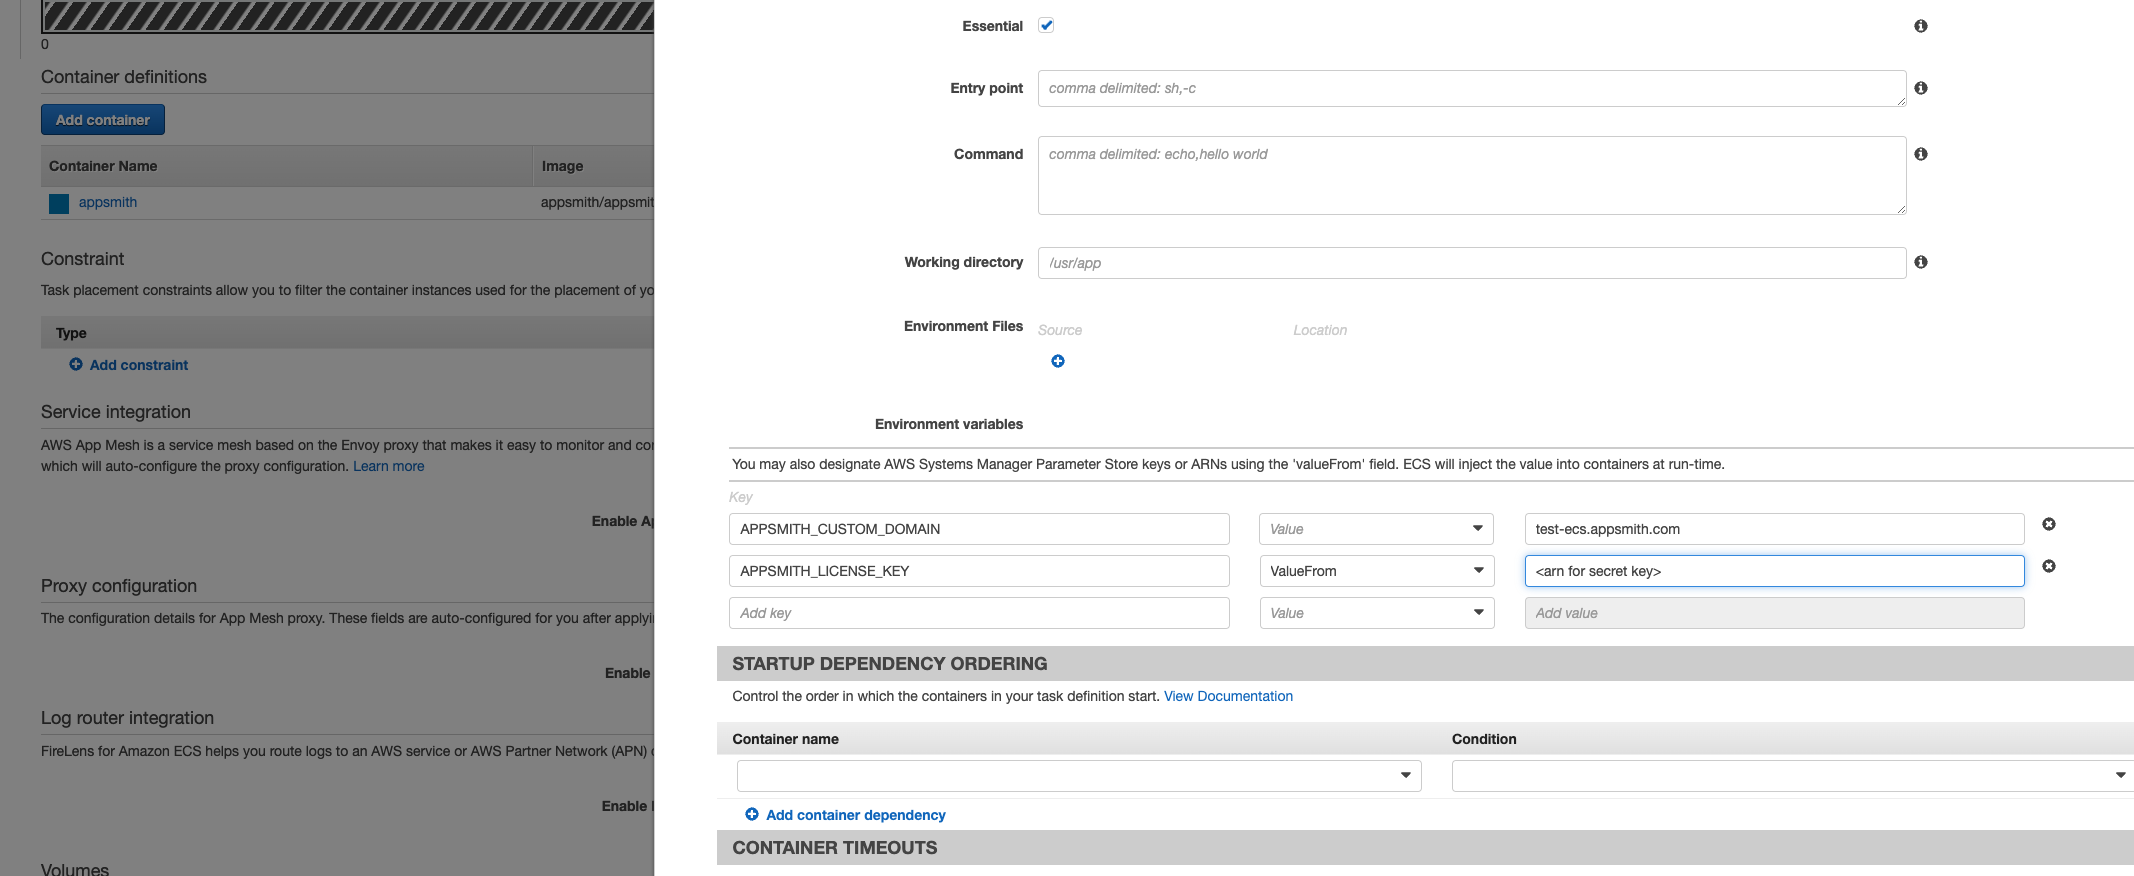
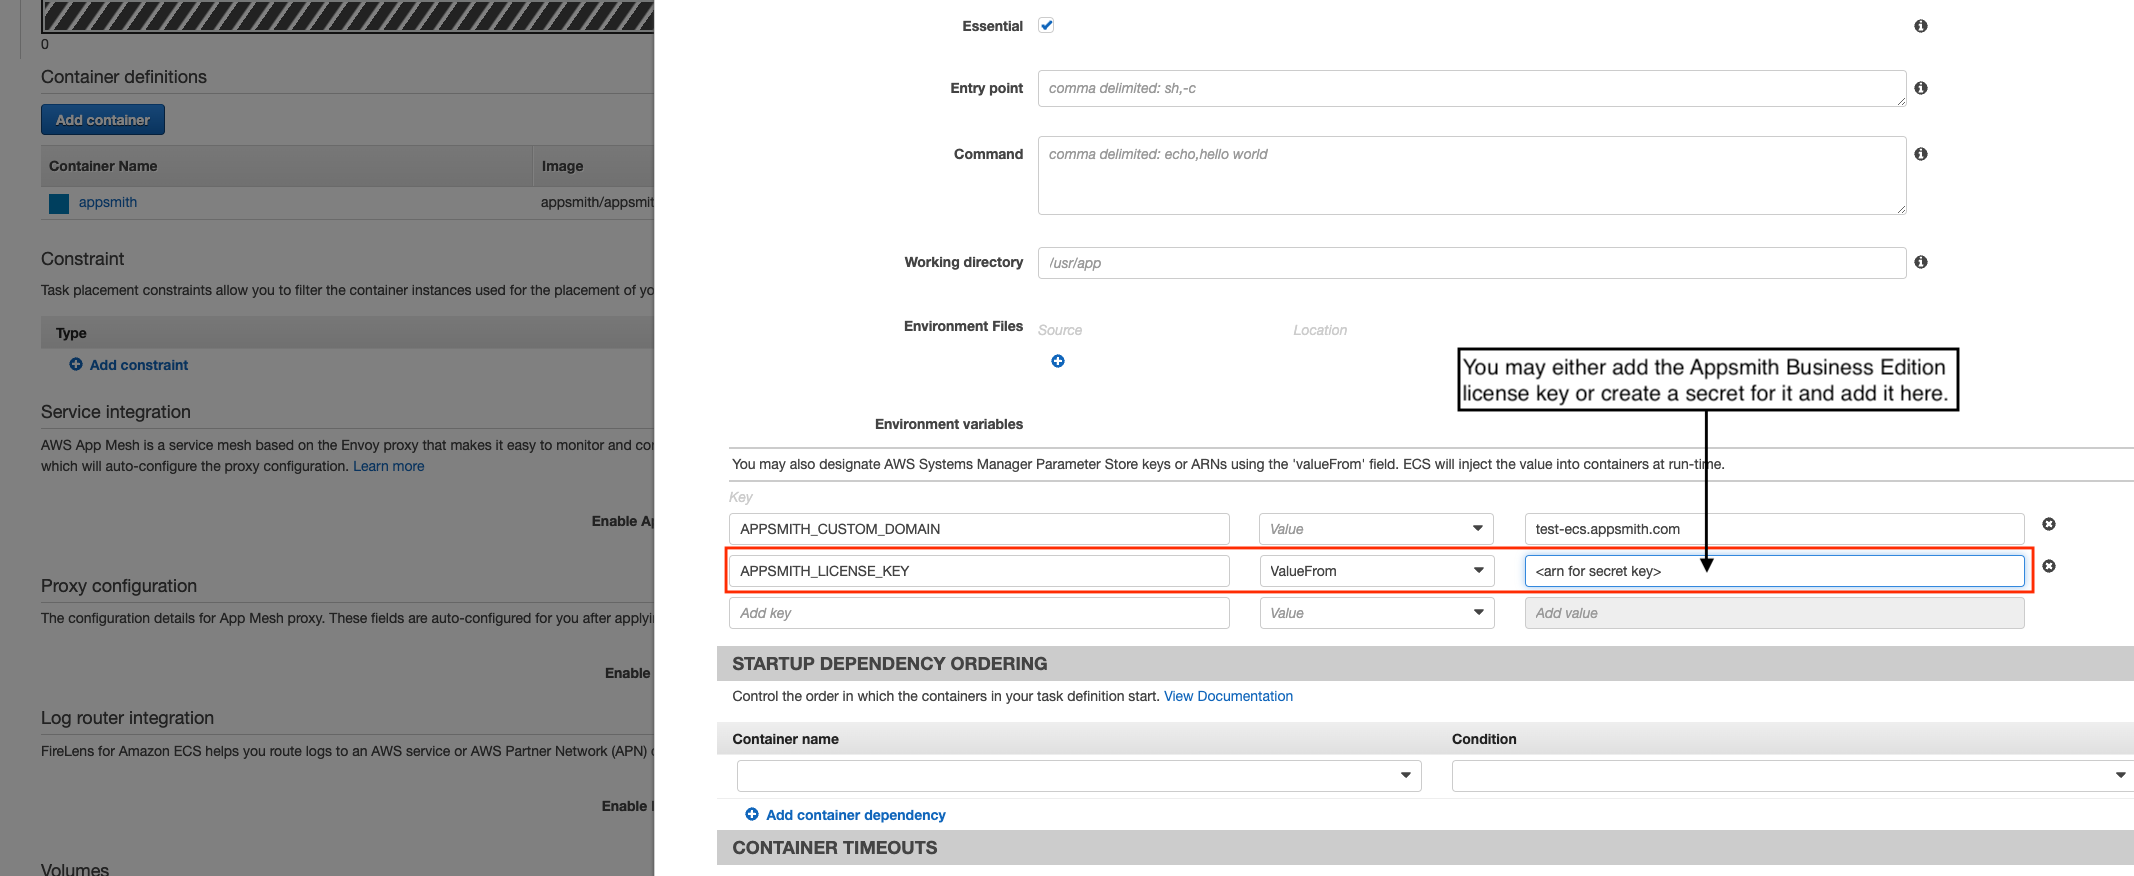
fixes for
- Linter
- Formatting issues
- Rewording
- Adding exceptions
- Added annotation to `ecs-container-env` image

Changed region(s): [[0.3402, 0.6164, 0.9588, 0.6781], [0.6804, 0.3699, 0.9278, 0.4932]]

diff --git a/website/docs/getting-started/setup/installation-guides/aws-ecs.md b/website/docs/getting-started/setup/installation-guides/aws-ecs.md
@@ -7,11 +7,11 @@ sidebar_position: 5
 
 ## Prerequisites
 
-### 1: Register With Amazon Web Services
+### 1: Register with Amazon Web Services
 
 If you already have an Amazon Web Services account, you may skip this step.
 
-Please follow the steps [detailed here](https://aws.amazon.com/premiumsupport/knowledge-center/create-and-activate-aws-account/) in order to create an account on AWS.
+Please follow the steps [detailed here](https://aws.amazon.com/premiumsupport/knowledge-center/create-and-activate-aws-account/) to create an account on AWS.
 
 ### 2: Generate an SSH key pair
 
@@ -19,9 +19,9 @@ If you already have an SSH key pair for the AWS region you are operating in, you
 
 Please follow the steps [detailed here](https://docs.aws.amazon.com/AWSEC2/latest/UserGuide/ec2-key-pairs.html#having-ec2-create-your-key-pair) to generate a new key pair. You need this key to SSH into your AWS EC2 instance.
 
-### 3: Create an AWS Security Group
+### 3: Create an AWS security group
 
-If you already have an existing security group with ports 80, 443, 22 and 9001 open, you can skip this step.
+If you already have an existing security group with ports 80, 443, 22, and 9001 open, you can skip this step.
 
 Appsmith is a web application that requires ports 80 and 443 for HTTP access, port 22 to be accessible for SSH access, it also requires port 9001 to be accessible for the [supervisord UI](http://supervisord.org/running.html). Please follow the steps [detailed here](https://docs.aws.amazon.com/AWSEC2/latest/UserGuide/working-with-security-groups.html#creating-security-group) to create a new security group.
 
@@ -29,17 +29,19 @@ While creating the new security group, please follow the steps [detailed here](h
 
 ***
 
-## ECS Overview
+## ECS overview
 
 ![ECS OVERVIEW](/img/ecs-overview.png)
 
-## Steps to Deploy Appsmith on ECS (using EC2 Launch Type):
+## Deploy Appsmith (using EC2 launch type):
 
 1. [Create an ECS Cluster](#step-1-create-an-ecs-cluster)
 2. [Create Task and Container Definitions](#step-2-create-task-and-container-definitions)
 3. [Create and Run an ECS Service](#step-3-create-and-run-an-ecs-service)
 
-> Note: Please switch to the old AWS console UI to follow the steps in this tutorial.
+:::info Important
+ Switch to the old AWS console UI to follow the steps in this tutorial.
+:::
 
 ### Step 1: Create an ECS Cluster
 
@@ -47,143 +49,142 @@ While creating the new security group, please follow the steps [detailed here](h
 
 ![Creating Cluster in AWS ECS](/img/spaces\_-Lzuzdhj8LjrQPaeyCxr-3757176148\_uploads\_git-blob-217fcdb99846c6da6b6b5b374ec8ceb61ff5c221\_ecs-start-dash.png)
 
-2\. Choose **EC2 Linux + Networking**, and select the next step.
+2. Choose **EC2 Linux + Networking**, and select the next step.
 
-3\. Enter your cluster name
+3. Enter your cluster name
 
-4\. Instance configuration:
+4. Instance configuration:
 
-* Select the provisioning model as **On-Demand Instance**.
-* Select the server size you wish to use, and set the **Number of instances** as **1**.
-* Select the **Amazon Linux2 AMI** for the EC2 AMI ID dropdown, and enter the required EBS volume size.
-* Select a **Key pair**. Please refer to [Prerequisite 2](#2-generate-an-ssh-key-pair), if you haven't already created one.
+    1. Select the provisioning model as **On-Demand Instance**.
+    2. Select the server size you wish to use, and set the **Number of instances** as **1**.
+    3. Select the **Amazon Linux2 AMI** for the EC2 AMI ID dropdown, and enter the required EBS volume size.
+    4. Select a **Key pair**. Please refer to [Prerequisite 2](#2-generate-an-ssh-key-pair), if you haven't already created one.
 
-![Configuring the instance](/img/spaces\_-Lzuzdhj8LjrQPaeyCxr-3757176148\_uploads\_git-blob-9b572559c7d254290a9d0e928d54b07d4314d60e\_ecs-cluster-instance-config.png)
+    ![Configuring the instance](/img/spaces\_-Lzuzdhj8LjrQPaeyCxr-3757176148\_uploads\_git-blob-9b572559c7d254290a9d0e928d54b07d4314d60e\_ecs-cluster-instance-config.png)
 
-5\. Networking Section
+5. Networking Section
 
-* Select the **default VPC** followed by selecting the **first subnet** from the drop-down.
-* Select the **security group** created in [Prerequisite 3](#3-create-an-aws-security-group).
+    1. Select the default VPC followed by selecting the first subnet from the drop-down.
+    2. Select the security group that you created in [Create an AWS security group] (#3-create-an-aws-security-group) section.
 
-![Configuring the Networking Section](/img/ecs-cluster-networking.png)
+    ![Configuring the Networking Section](/img/ecs-cluster-networking.png)
 
-6\. Enable container insights (this gives CloudWatch monitoring and helps to debug).
+6. Enable container insights (this gives CloudWatch monitoring and helps to debug).
 
-7\. Leave the Container instance IAM role as default (**ecsInstanceRole**), if you don't have one AWS creates it for you.
+7. Leave the Container instance IAM role as default (**ecsInstanceRole**), if you don't have one AWS creates it for you.
 
-8\. Hit the **Create button**. It may take a minute for your cluster to be ready.
+8. Hit the **Create button**. It may take a minute for your cluster to be ready.
 
 ![ECS Cluster Status](/img/spaces\_-Lzuzdhj8LjrQPaeyCxr-3757176148\_uploads\_git-blob-838febeb60a4267fe023333877400abfa9cdecbe\_ecs-cluster-launch.png)
 
-### Step 2: Create Task and Container Definitions
+### Step 2: Create task and container definitions
 
 Once the cluster is created, you need to create a task that runs on the cluster created in [**Step 1**](#step-1-create-an-ecs-cluster).
 
-1. On the sidebar, choose **Task Definitions** and select **Create new Task Definition**.
-2. Choose **EC2** as the **launch type**, and proceed to the next step.
+1. On the sidebar, choose Task Definitions and select Create new Task Definition.
+2. Choose EC2 as the launch type, and proceed to the next step.
 3. Configure task and definition
-   * Enter the task definition name.
-   * Leave the Task role **blank**.
-   * Select the **default** Network mode
+   1. Enter the task definition name.
+   2. Leave the Task role blank.
+   3. Select the default Network mode
 
-![Configuration of the Task](</img/ecs-task-def_(1)_(1)_(1)_(2)_(1).png>)
+      ![Configuration of the Task](</img/ecs-task-def_(1)_(1)_(1)_(2)_(1).png>)
 
-4\. Select the default Task execution IAM role (**ecsTaskExecutionRole**). AWS creates one for you if you don't have one.
+4. Select the default Task execution IAM role (ecsTaskExecutionRole). AWS creates one for you if you don't have one.
 
-5\. Set the required **task size** (memory & CPU)
+5. Set the required task size (memory & CPU)
 
-6\. Go to the **Volumes** section and add a new volume. 
-    In order to persist data on the Appsmith installation we have two options.
-    Option 1 > Bind mount a directory on the host ec2 instance. The data is tied to the lifecycle of the host ec2 instance/ecs cluster.
-    Enter the Name as `appsmith_stack`, set Volume type as **Bind Mount,** and set the **Source path** to `/Appsmith/stacks`.
+6. Go to the **Volumes** section and add a new volume. To persist data on the Appsmith installation you have two options.
+    1. Bind mount directory on the host ec2 instance. The data is tied to the lifecycle of the host ec2 instance/ecs cluster. Enter the Name as `appsmith_stack`, set Volume type as **Bind Mount,** and set the **Source path** to `/Appsmith/stacks`.
       ![Bind Mount Volume Configuration](/img/ecs\_volume.png)
-    Option 2 > Amazon EFS volumes. The data is independent of the lifecycle of the host ec2 instance/ecs cluster.
-     Prequisite: Create an EFS filesystem by following the steps below:
-      - Navigate to AWS EFS on the console and hit the Create button.
-      - Set the parameters like VPC (should be the same as the ECS cluster) and storage class as suiting your requirement.
-      - Click on the EFS created and navigate to the Network tab to ensure mount-target is created in the same availability-zone as taht of the ECS cluster.
-      - Create a new security group to allow inbount and outbond NFS traffic.
-      - Attach the security group to the ECS cluster and the EFS mount-target.
-    Enter the Name as `appsmith_stack`, set Volume type as **EFS** and set the **File System ID** to the EFS filesystem created in the pequisite step above. Leave the remaining fields with the default values.
-      ![EFS Volume Configuration](/img/ecs_efs.png)
+    2. Amazon EFS volumes- The data is independent of the lifecycle of the host ec2 instance/ecs cluster.
 
-7\. Configure **Appsmith container configuration**.
+        1. Create an EFS filesystem by following the steps below:
+            1. Navigate to AWS EFS on the console and hit the Create button.
+            2. Set the parameters like VPC (should be the same as the ECS cluster) and storage class as suiting your requirement.
+            3. Click on the EFS created and navigate to the Network tab to ensure mount-target is created in the same availability-zone as that of the ECS cluster.
+            4. Create a new security group to allow inbound and outbound NFS traffic.
+            5. Attach the security group to the ECS cluster and the EFS mount-target.
 
-* Hit **Add container** button.
-* Enter the container name, and set the Image to `appsmith/appsmith-ce`
-* Add port mappings for the ports **80->80,443->443**
-* Set the _Mount points Source volume_ to `appsmith_stack` and set the Container path to `/appsmith-stacks`
+        2. Enter the Name as `appsmith_stack`, set Volume type as **EFS** and set the **File System ID** to the EFS filesystem created in the prequisite step. Leave the remaining fields with the default values.
 
-![Storage Setting](</img/ecs\_mount_(1).png>)
+          ![EFS Volume Configuration](/img/ecs-efs.png)
 
-* You can configure the Environment Values for the Appsmith in the Environment Section. For sensitive values we recommend you create secrets and set the env value using the ValueFrom option by specifying the arn of the secret created. Please refer the https://docs.aws.amazon.com/secretsmanager/latest/userguide/create_secret.html to create a new secret.
-![Container Environment](</img/ecs-container-env.png>)
+7. Configure **Appsmith container**.
+    1. Click the **Add container** button.
+    2. Enter the container name, and set the Image to `appsmith/appsmith-ce`
+    3. Add port mappings for the ports **80->80,443->443**
+    4. Set the _Mount points Source volume_ to `appsmith_stack` and set the Container path to `/appsmith-stacks`
 
-* Note for Appsmith Business Edition the APPSMITH_LICENSE_KEY can be set here.
+      ![Storage Setting](/img/ecs\_mount_(1).png)
 
-* Enable **Auto-configure CloudWatch Logs** for log configuration.
-* Hit **Add.**
+    5. You can configure the Environment Values for the Appsmith in the Environment Section. For sensitive values it's recommended you create secrets and set the `env` value using the ValueFrom option by specifying the `arn` of the secret created. You can either add the Appsmith Business Edition License Key as plain text to the `APPSMITH_LICENSE_KEY` variable or create a new secret for it and add that secret into the field. For more information, see [How to create a new secret](https://docs.aws.amazon.com/secretsmanager/latest/userguide/create_secret.html) on Amazon official documentation.
 
-![Conainer Port Configuration](</img/ecs-task-appsmith_(1)_(1)_(1)_(2).png>)
+      ![Container Environment](/img/ecs-container-env.png)
 
-* Finally, hit the **Create** button.
+    7. Enable auto-configure CloudWatch Logs for log configuration.
+    8. Hit **Add.**
 
-### Step 3: Create and Run an ECS Service.
+      ![Container Port Configuration](/img/ecs-task-appsmith_(1)_(1)_(1)_(2).png)
+
+    9. Finally, hit the **Create** button.
+
+### Step 3: Create and run an ECS service
 
 1. Navigate to the **clusters dashboard** and click the ECS cluster created in [**Step 1**]/(aws-ecs#step-1-create-an-ecs-cluster).
 2. On the cluster details, under the **Services tab** hit the **create** button.
 
 ![Cluster Dashboard](/img/ecs-cluster-service-creation.png)
 
-3\. Configure Service
+3. Configure Service
 
-* Select **EC2** as Launch Type.
-* Select the **Task Definition** created in [**Step 2**](#step-2-create-task-and-container-definitions) with the latest revision.
-* Select the **Cluster** created in [**Step 1**](#step-1-create-an-ecs-cluster).
-* Enter the service name.
-* Select the **Daemon** Service type.
-* Set the **Minimum Healthy Percent** to **40**.
-* Leave the remaining fields and sections with the **default values**, and proceed to the next step.
+    1. Select **EC2** as Launch Type.
+    2. Select the **Task Definition** created in [**Step 2**](#step-2-create-task-and-container-definitions) with the latest revision.
+    3. Select the **Cluster** created in [**Step 1**](#step-1-create-an-ecs-cluster).
+    4. Enter the service name.
+    5. Select the **Daemon** Service type.
+    6. Set the **Minimum Healthy Percent** to **40**.
+    7. Leave the remaining fields and sections with the **default values**, and proceed to the next step.
 
-![Configuring the service](/img/service-ecs-appsmith.png)
+      ![Configuring the service](/img/service-ecs-appsmith.png)
 
-4\. Configure network - Proceed to the next step with the **default** configurations.
+4. Configure network - Proceed to the next step with the **default** configurations.
 
-![](</img/ecs-service-lb_(1)_(1)_(1)_(2)_(3).png>)
+![Configure Network](</img/ecs-service-lb_(1)_(1)_(1)_(2)_(3).png>)
 
-5\. Set Auto Scaling - Proceed to the next step with the **default** configuration.
+5. Set Auto Scaling - Proceed to the next step with the **default** configuration.
 
 ![Setting Up Auto Scaling](/img/spaces\_-Lzuzdhj8LjrQPaeyCxr-3757176148\_uploads\_git-blob-c530f8614a433bc339b500c3859d7332960ac0fc\_ecs-service-auto-scaling.png)
 
-6\. Review the Service configurations and hit the **Create Service** button.
+6. Review the Service configurations and hit the **Create Service** button.
 
 ![Review Section](/img/spaces\_-Lzuzdhj8LjrQPaeyCxr-3757176148\_uploads\_git-blob-d41afa800108de88c398d00edf945db81077d4c0\_ecs-service-review.png)
 
-7\. The following screen is shown with the **launch status**, click the **View Service** button.
+7. The following screen is shown with the **launch status**, click the **View Service** button.
 
 ![Launch Status Dashboard](/img/spaces\_-Lzuzdhj8LjrQPaeyCxr-3757176148\_uploads\_git-blob-6e59de9348c02c19d5b8bf0871b056ebf8ec5a97\_ecs-service-launch-status.png)
 
-8\. You are directed to the **service detail** page. Your task is listed under the **Tasks tab** on the cluster. refresh the table until the status is **RUNNING**.
+8. You are directed to the **service detail** page. Your task is listed under the **Tasks tab** on the cluster. refresh the table until the status is **RUNNING**.
 
 ![Service Detail Page](/img/ecs-service-task-status.png)
 
-9\. Click on the **task** to get the details of your running service.
+9. Click on the **task** to get the details of your running service.
 
 ![Task Dashboard](/img/spaces\_-Lzuzdhj8LjrQPaeyCxr-3757176148\_uploads\_git-blob-0e04e6250702a263e7398969ee75be5b82a4f1f4\_ecs-task-details.png)
 
-10\. Finally, click on the **EC2 instance id** to navigate to the EC2 console with your ECS instance (which is basically an EC2 instance running the container service) listed.
+10. Finally, click the **EC2 instance id** to navigate to the EC2 console with your ECS instance (which is basically an EC2 instance running the container service) listed.
 
 ![EC2 Console](/img/spaces\_-Lzuzdhj8LjrQPaeyCxr-3757176148\_uploads\_git-blob-d598b204016d7ceb09c3e8f229d6b0efc0a9a71c\_ecs-instance-ec2.png)
 
-11\. Find the **public IP address** or **DNS name** and enter it on your browser to see Appsmith's welcome page.
+11. Find the **public IP address** or **DNS name** and enter it on your browser to see Appsmith's welcome page.
 
-![](/img/spaces\_-Lzuzdhj8LjrQPaeyCxr-3757176148\_uploads\_git-blob-b42232223f0151a5f3324137635656e4ab248312\_appsmith-welcome-page.png)
+![Public IP Address](/img/spaces\_-Lzuzdhj8LjrQPaeyCxr-3757176148\_uploads\_git-blob-b42232223f0151a5f3324137635656e4ab248312\_appsmith-welcome-page.png)
 
 :::note
  In this guide, If you are using the embedded MongoDB, the container persistence is tied up with the EC2 instance lifecycle.
 :::
 
-## Updating to the latest Appsmith release
+## Update Appsmith
 
 1. Navigate to the ECS cluster from the ECS dashboard.
 2. In the Tasks Tab, click the respective task.
@@ -194,7 +195,7 @@ Once the cluster is created, you need to create a task that runs on the cluster 
 
 If you encounter any errors during this process, check out the [debugging deployment errors](/help-and-support/troubleshooting-guide/deployment-errors), if you are still facing an issue please reach out to [support@appsmith.com](mailto:support@appsmith.com) or join the [Discord Server](https://discord.com/invite/rBTTVJp) to directly speak to the Appsmith team.
 
-## Further Reading
+## Further reading
 
 * [Configuring ECS Installations](/getting-started/setup/instance-configuration#configure-ecs-installations)
 * [Managing the Appsmith instance](/getting-started/setup/instance-management/)
